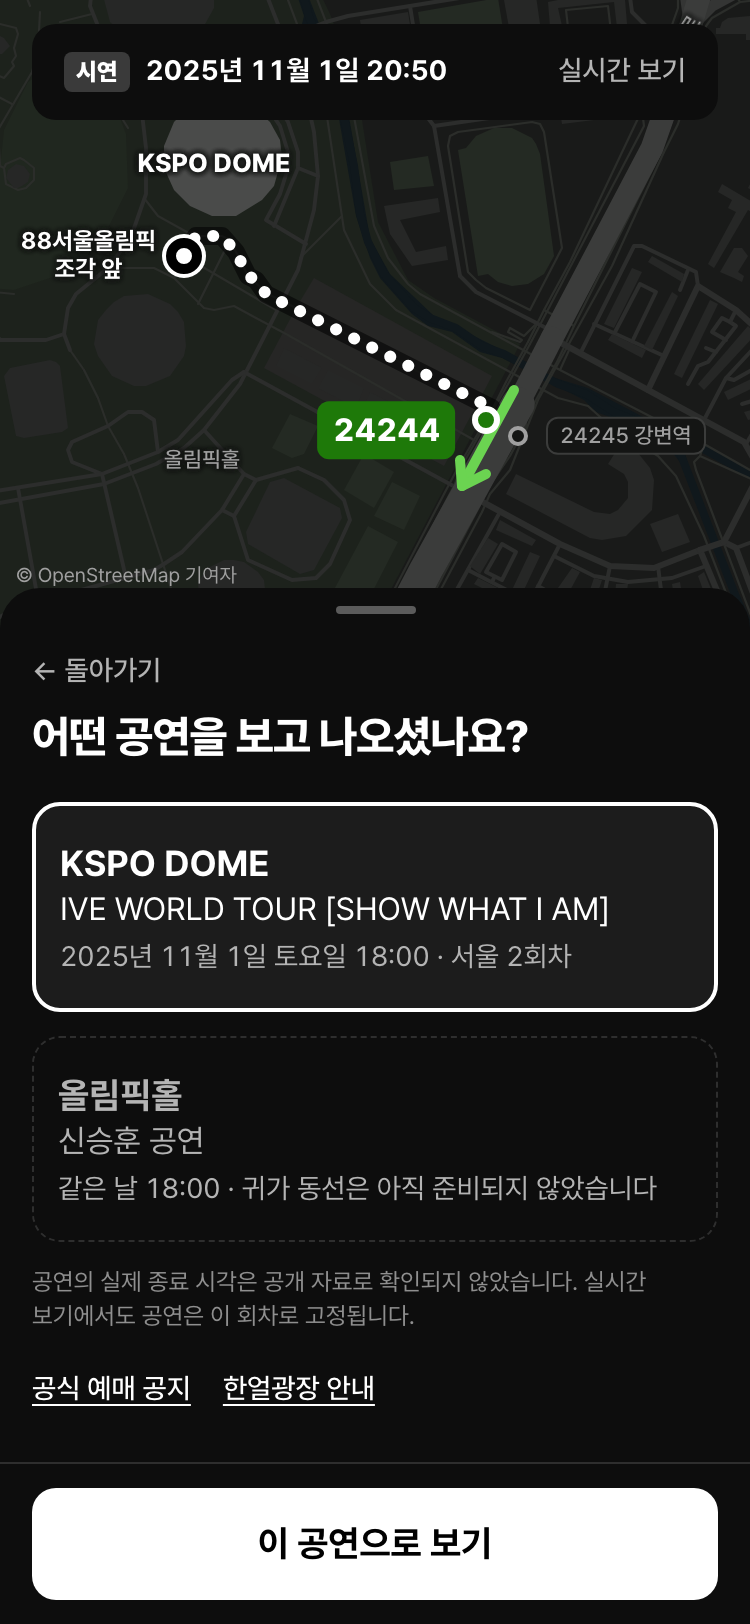
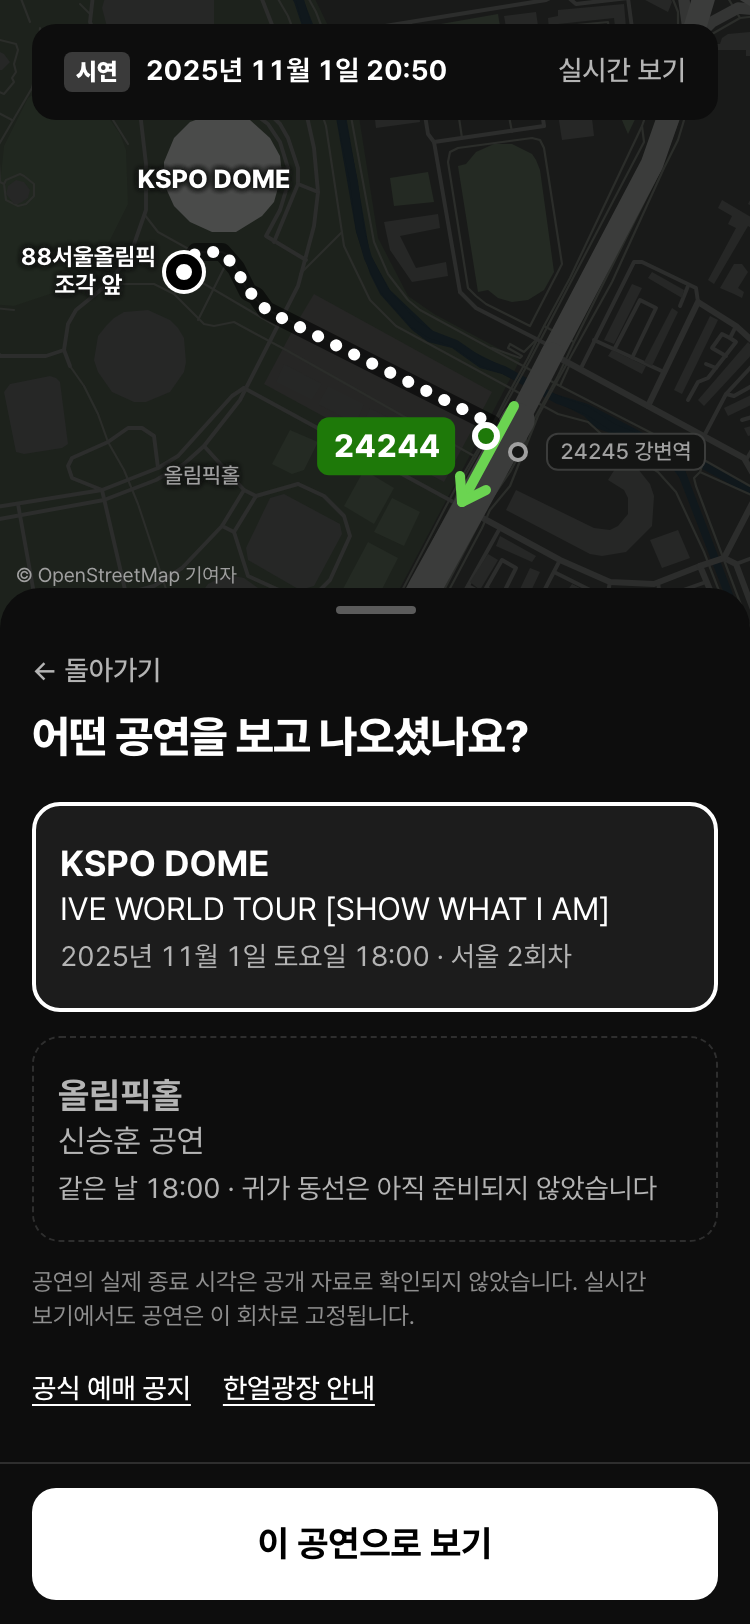
피드백 반영: 도착 시간 표기, 4번 출구 6분, 카드에 막차, 배포 프로필 분리

diff --git a/public/app.js b/public/app.js
@@ -45,9 +45,9 @@
     });
     var p = D.s.paths, so = D.r.subway_options;
     opts.push(
-      // 원자료는 역 중심점까지다. 지도에는 4번 출구(OSM node 8227072104)까지만 그린다.
+      // 경로선 자료는 역 중심점까지다. 지도에는 4번 출구(OSM node 8227072104)까지만 그린다.
       { id: 'subway-olympic', kind: 'sub', name: '올림픽공원역', exit: '4번 출구', lines: ['5', '9'], walk: so[0].walking_minutes_estimate, m: so[0].walking_m_estimate, o: so[0],
-        line: p['subway-olympic'].walking_polyline_lon_lat.slice(0, 15).concat([[127.130784, 37.516432]]) },
+        line: p['subway-olympic'].walking_polyline_lon_lat.slice(0, 15).concat([so[0].exit_coordinate_lon_lat]) },
       { id: 'subway-hanseong', kind: 'sub', name: '한성백제역', exit: '2번 출구', lines: ['9'], crowd: true, walk: so[1].walking_minutes_estimate, m: so[1].walking_m_estimate, o: so[1],
         line: p['subway-hanseong'].walking_polyline_lon_lat });
     if (mode === 'demo' && SC[sc].ended) sel = 2;
@@ -150,9 +150,10 @@
     h += '<span class="name"><span class="badge">3214</span>' + esc(x.o.direction) + ' 방면</span><span class="sub">' +
       (on ? '정류소 <b>' + x.o.ars_id + '</b> · ' + BUS[x.k].short + '<br>다음 정류장 ' + esc(x.o.next_stop)
         : a.f === 1 && a.buses[0].min != null ? '앞차 ' + a.buses[0].min + '분은 놓칠 수 있음' : '도보 ' + x.walk + '분 → 정류소 ' + x.o.ars_id) + '</span></span>';
-    if (b && b.min != null) h += num(b.min < 1 ? '곧' : b.min, b.min < 1 ? '' : '분', eg() + '<span class="' + b.cls + '">' + b.text + '</span>' + (b.isLast ? ' · 막차' : ''));
+    if (b && b.min != null) h += num(b.min < 1 ? '곧' : b.min, b.min < 1 ? '' : '분', (on ? '버스 ' + (b.min < 1 ? '곧 도착' : b.min + '분 뒤 도착') + '<br>' : '') + eg() + '<span class="' + b.cls + '">' + b.text + '</span>' + (b.isLast ? ' · 막차' : ''));
     else h += '<span class="num"><span class="u">' + ({ ended: '운행 종료', fail: '조회 불가', load: '조회 중' }[a.status] || esc((b && b.msg) || '도착 정보 없음')) + '</span><span class="t">' + (a.last ? '막차 ' + a.last : '') + '</span></span>';
-    if (on) h += bar(x, b && b.min != null && b.cls !== 'miss' ? b : null) + (a.f === 1 && a.buses[0].min != null ? '<span class="miss1">앞차 ' + a.buses[0].min + '분은 걷는 동안 지나갈 수 있습니다</span>' : '');
+    if (on) h += bar(x, b && b.min != null && b.cls !== 'miss' ? b : null) + (a.f === 1 && a.buses[0].min != null ? '<span class="miss1">앞차 ' + a.buses[0].min + '분은 걷는 동안 지나갈 수 있습니다</span>' : '') +
+      (a.last && b && b.min != null ? '<span class="miss1">막차 <b>' + a.last + '</b> · ' + a.lastNote + '</span>' : '');
     return h + '</button>';
   }
   function list() {
@@ -181,7 +182,7 @@
       '<button type="button" data-go="#/go/subway-hanseong">한성백제역 가는 길</button>' + link(METRO, '지하철 막차 확인') + '</p>' + last;
     if (!a.buses.length) return '<p class="state">도착 예정 버스 없음</p>' + last;
     h += '<div class="etas">' + a.buses.map(function (b, i) {
-      return '<div class="eta ' + b.cls + (i === a.f || (a.f < 0 && i === 0 && b.min == null) ? ' on' : '') + '"><span class="k">' + (i ? '다음 버스' : '첫 버스') + (b.isLast ? ' · 막차' : '') + (mode === 'demo' ? ' · 예시' : '') + '</span>' +
+      return '<div class="eta ' + b.cls + (i === a.f || (a.f < 0 && i === 0 && b.min == null) ? ' on' : '') + '"><span class="k">' + (i ? '다음 버스' : '첫 버스') + ' 도착' + (b.isLast ? ' · 막차' : '') + (mode === 'demo' ? ' · 예시' : '') + '</span>' +
         (b.min == null ? '<span class="u">' + esc(b.msg || '정보 없음') + '</span>' : '<span class="n">' + (b.min < 1 ? '곧' : b.min) + '</span>' + (b.min < 1 ? '' : '<span class="u">분</span>')) +
         '<span class="v ' + b.cls + '">' + b.text + '</span></div>';
     }).join('') + '</div>';
@@ -209,7 +210,7 @@
       h += '<h1 class="route" tabindex="-1">' + x.lines.map(badge).join('') + x.name + '</h1>' +
         '<section class="block first"><div class="etas"><div class="eta on"><span class="k">걸어서</span><span class="n">' + x.walk + '</span><span class="u">분</span></div>' +
           '<div class="eta"><span class="k">들어가는 곳</span><span class="n">' + x.exit.charAt(0) + '</span><span class="u">번 출구</span></div></div>' + bar(x) +
-          '<p class="small">약 ' + (x.m >= 1000 ? (x.m / 1000).toFixed(1) + 'km' : x.m + 'm') + '. ' + (oly ? '역 중심점까지의 지도 경로 추정입니다.' : '2번 출구 인근까지의 지도 경로 추정입니다. 예매처 안내는 약 20분입니다.') + '</p></section>';
+          '<p class="small">약 ' + (x.m >= 1000 ? (x.m / 1000).toFixed(1) + 'km' : x.m + 'm') + '. ' + (oly ? '4번 출구까지의 지도 경로 추정입니다.' : '2번 출구 인근까지의 지도 경로 추정입니다. 예매처 안내는 약 20분입니다.') + '</p></section>';
       if (oly) h += '<section class="block"><h2>길 어느 쪽으로 들어가나요</h2>' + road('exit4') + '<p class="note"><b>4번 출구</b>는 공원 쪽에 있습니다. 양재대로를 건너지 않습니다.</p></section>' +
         '<section class="block"><h2>5호선은 행선지를 확인하세요</h2><p class="note">5호선은 강동역에서 마천 방면과 하남 방면으로 갈라집니다. 타기 전에 열차 행선지를 확인하세요.</p></section>';
       else h += '<section class="block"><h2>올림픽공원역이 붐빌 때</h2><p class="note">예매처 공연장 안내는 공연 직후 올림픽공원역 혼잡을 피하려면 한성백제역이나 몽촌토성역을 권합니다.</p></section>';
@@ -450,7 +451,7 @@
     var x = opts[sel], path = x.line.map(ll), z = map.getZoom();
     mark([37.51915, 127.12735], 'm-text venue', 'KSPO DOME').addTo(over);
     mark([37.5199, 127.1330], 'm-text road', '양재대로').addTo(over);
-    mark([37.5161, 127.1272], 'm-text', '올림픽홀').addTo(over);
+    mark([37.5161, 127.1272], 'm-text', '올림픽홀').setZIndexOffset(-1000).addTo(over);
     // 도보 점선
     var sv = L.svg({ padding: 0.5 });
     L.polyline(path, { renderer: sv, color: css('--walk-case'), weight: 9, opacity: .55, lineCap: 'round', interactive: false }).addTo(over);
@@ -482,9 +483,9 @@
     var x = opts[sel], b = L.latLngBounds(x.line.map(ll)), wide = innerWidth >= 768, s = $('sheet');
     if (x.kind === 'bus') b.extend(ST.machon).extend(ST.gangbyeon).extend(heading(x.k)[1]);
     var sh = s.offsetHeight - down;
-    if (!wide) sh = Math.min(sh, innerHeight * .68);
+    if (!wide) sh = Math.min(sh, innerHeight * .7);
     map.getContainer().querySelector('.leaflet-bottom').style.cssText = wide ? 'left:440px' : 'bottom:' + sh + 'px';
-    map.fitBounds(b, { animate: anim, paddingTopLeft: [wide ? 520 : 92, 96], paddingBottomRight: [wide ? 80 : x.kind === 'bus' ? 116 : 84, wide ? 40 : sh + (x.kind === 'bus' ? 30 : 54)] });
+    map.fitBounds(b, { animate: anim, paddingTopLeft: [wide ? 520 : 92, 112], paddingBottomRight: [wide ? 80 : x.kind === 'bus' ? 116 : 84, wide ? 40 : sh + (x.kind === 'bus' ? 30 : 54)] });
     overlay();
   }
 })();

diff --git a/public/app.css b/public/app.css
@@ -74,7 +74,7 @@ h1 { font-size: var(--fs-title); font-weight: var(--fw-heavy); line-height: var(
 
 .row {
   display: grid; grid-template-columns: 1fr auto; column-gap: var(--sp-3); align-items: center; width: 100%;
-  padding: var(--sp-2); border-radius: var(--r-row); border: 2px solid transparent; position: relative;
+  padding: 6px var(--sp-2); border-radius: var(--r-row); border: 2px solid transparent; position: relative;
 }
 .row:not(.on) + .row:not(.on)::before { content: ""; position: absolute; left: var(--sp-2); right: var(--sp-2); top: -2px; border-top: 1px solid var(--line); }
 .row.on { border-color: var(--line-strong); background: var(--surface); }
@@ -89,7 +89,7 @@ h1 { font-size: var(--fs-title); font-weight: var(--fw-heavy); line-height: var(
 .num { text-align: right; line-height: 1; white-space: nowrap; }
 .num .n { font-size: 28px; font-weight: var(--fw-heavy); letter-spacing: -.03em; }
 .num .u { font-size: var(--fs-sub); font-weight: var(--fw-bold); margin-left: 1px; }
-.num .t { display: block; margin-top: 4px; font-size: var(--fs-note); color: var(--text-2); }
+.num .t { display: block; margin-top: 4px; line-height: 1.35; font-size: var(--fs-note); color: var(--text-2); }
 .num.walk .n, .num.walk .u { color: var(--text-2); font-weight: var(--fw-bold); }
 .row.on .num .n { font-size: var(--fs-eta); }
 .row.on .num .u { font-size: 18px; }
@@ -102,6 +102,7 @@ h1 { font-size: var(--fs-title); font-weight: var(--fw-heavy); line-height: var(
 .bar i:first-child { border-radius: var(--r-badge) 0 0 var(--r-badge); }
 .bar i:last-child { border-radius: 0 var(--r-badge) var(--r-badge) 0; }
 .miss1 { grid-column: 1 / -1; margin-top: 6px; font-size: var(--fs-note); color: var(--text-2); }
+.miss1 b { color: var(--text); font-weight: var(--fw-bold); }
 .bar .w { background: var(--surface-2); color: var(--text); }
 .bar .g { border: 1px dashed var(--text-3); color: var(--text-2); font-weight: var(--fw-medium); }
 .bar .b { background: var(--bus); color: var(--bus-on); flex: 1 0 auto; }
@@ -117,6 +118,7 @@ h1 { font-size: var(--fs-title); font-weight: var(--fw-heavy); line-height: var(
 .cta button:active { opacity: .85; }
 
 /* 탑승 위치 · 공연 · 출차 화면 */
+.sheet[data-view="home"] { max-height: 68dvh; }
 .sheet[data-view="event"], .sheet[data-view="car"] { max-height: 78dvh; }
 .pad { padding: var(--sp-3) var(--sp-2); }
 .back { min-height: 40px; padding: 0 var(--sp-2); font-size: var(--fs-sub); font-weight: var(--fw-medium); color: var(--text-2); }
